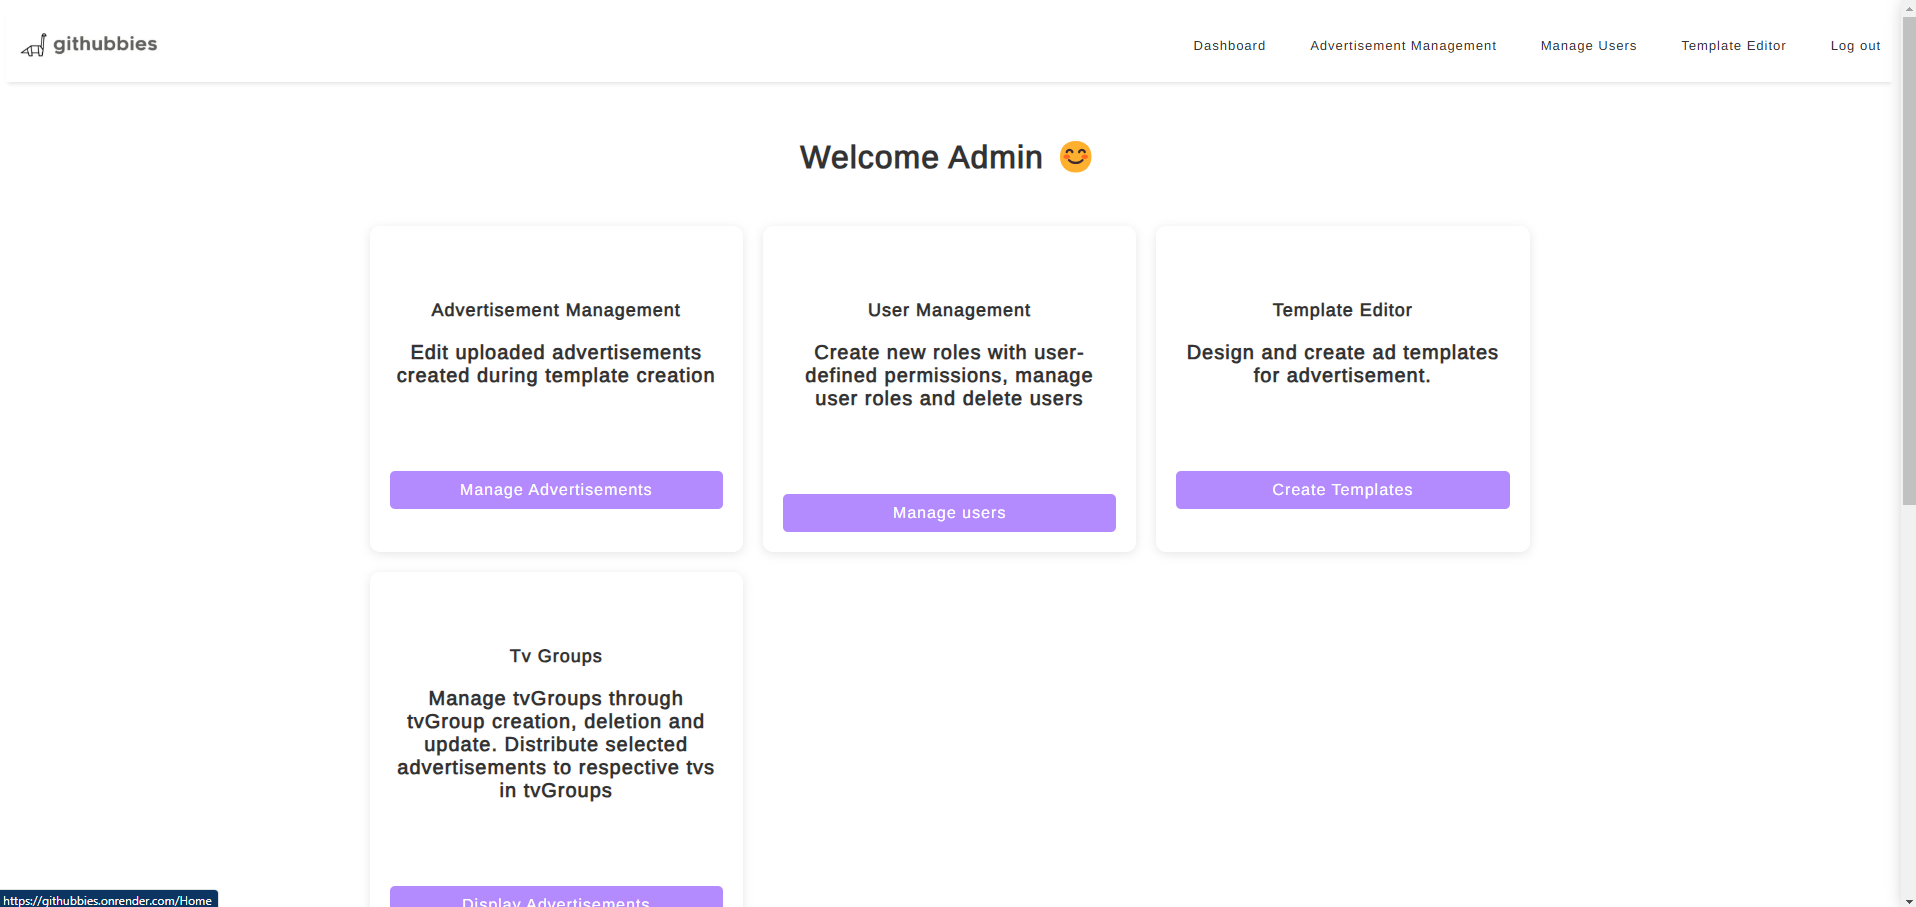
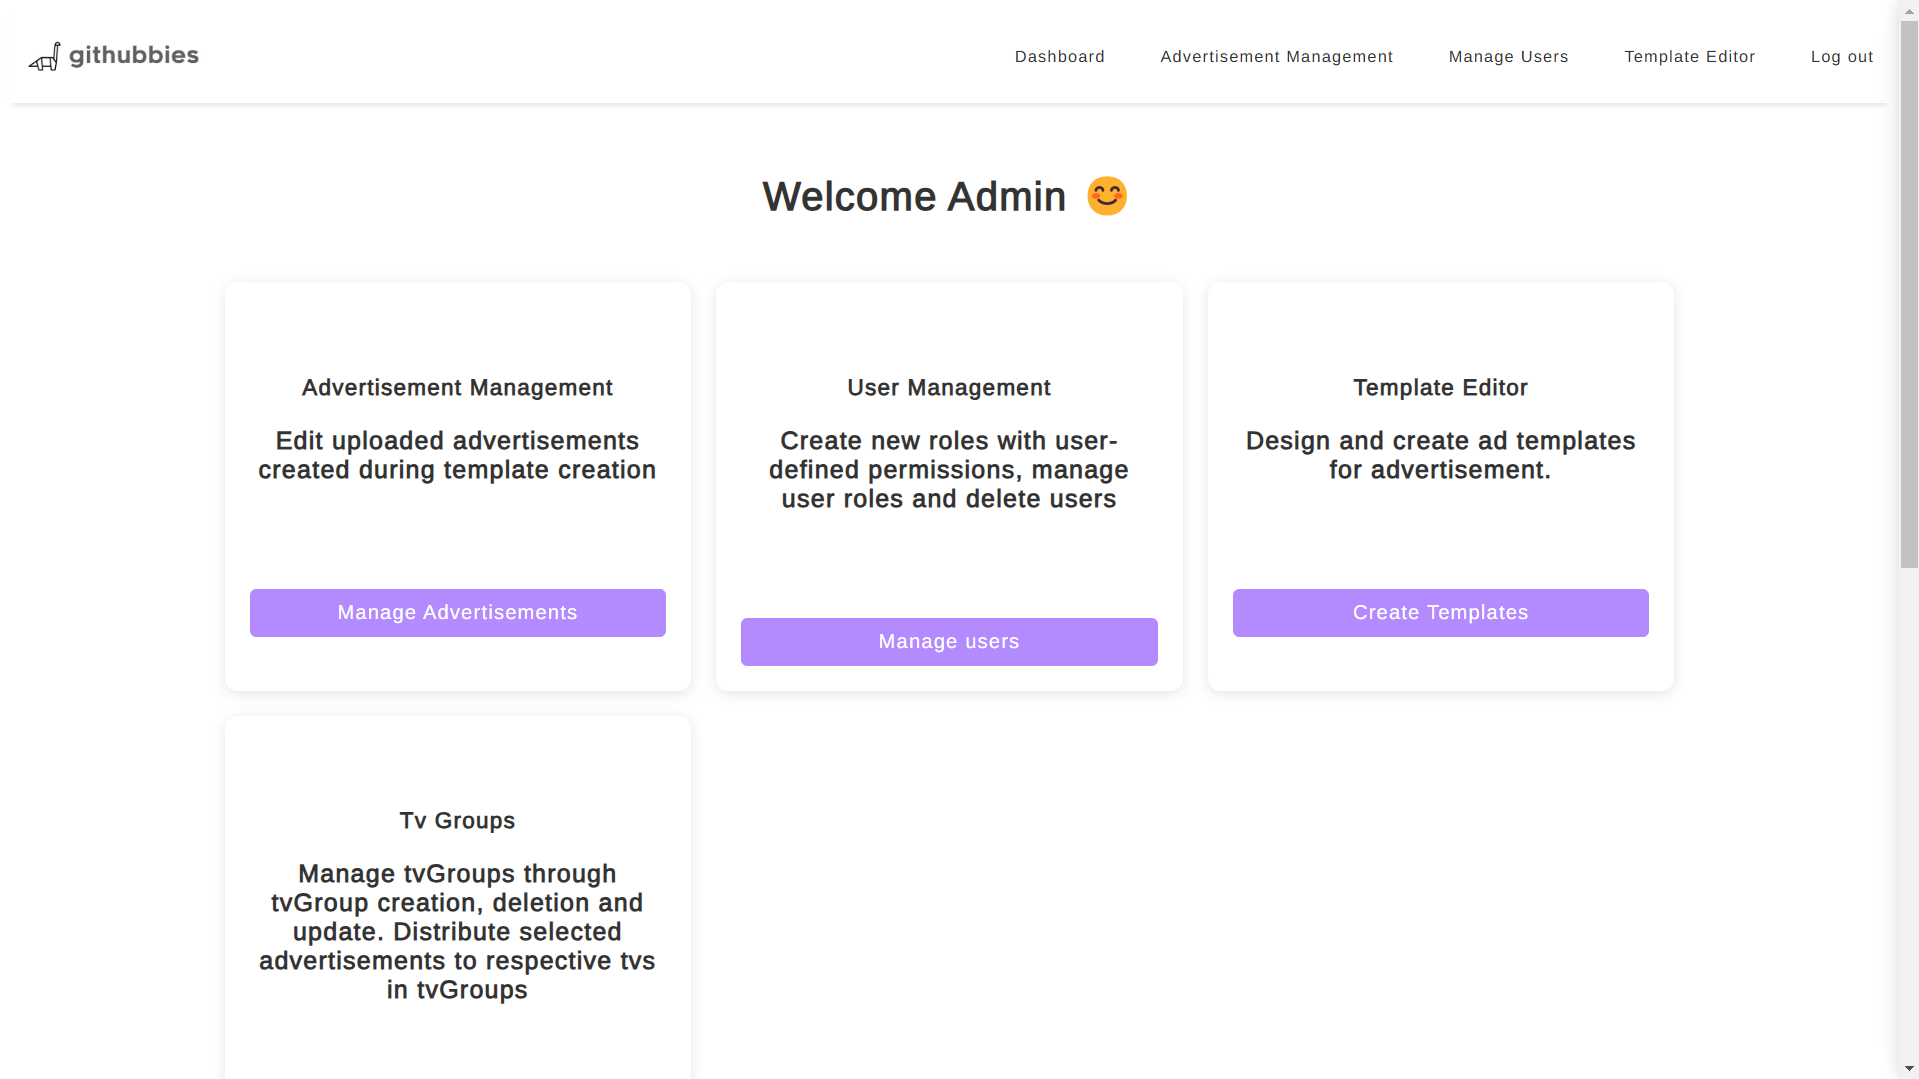
ammended the logic for displaying projects, use pop up instead of displaying on the homepage to allow for better user experience on other devices

diff --git a/src/App.tsx b/src/App.tsx
@@ -4,7 +4,6 @@ import { Card, CardContent, CardDescription, CardHeader, CardTitle } from '@/com
 import { Button } from '@/components/ui/button';
 import { Carousel, CarouselContent, CarouselItem, CarouselNext, CarouselPrevious } from './components/ui/carousel';
 import { Github, Linkedin, Mail } from 'lucide-react';
-import Autoplay from 'embla-carousel-autoplay';
 import AutoScroll from 'embla-carousel-auto-scroll';
 import resume from './assets/IsaacTiewXunYong_Resume.pdf';
 import MyPdf from './components/ui/pdf';
@@ -16,6 +15,8 @@ import BEDpic4 from './assets/BED/BED_Website_EventManagementAdmin.png'
 import FSDPpic1 from './assets/FSDP/homepage.png';
 import FSDPpic2 from './assets/FSDP/management.png';
 import FSDPpic3 from './assets/FSDP/template.png'
+import { useState,useRef } from 'react';
+import MyModal  from './components/ui/modal';
 
 
 interface projPhotos{
@@ -29,6 +30,41 @@ interface projPhotos{
 
 
 const Portfolio = () => {
+  const languagesKnown : {langName: string, image: string}[] = [
+    {langName: "C++", image: "https://cdn.jsdelivr.net/gh/devicons/devicon@latest/icons/cplusplus/cplusplus-original.svg" },
+    {langName: "Python", image: "https://cdn.jsdelivr.net/gh/devicons/devicon@latest/icons/python/python-original.svg"},
+    {langName: "Javascript", image: "https://cdn.jsdelivr.net/gh/devicons/devicon@latest/icons/javascript/javascript-plain.svg"},
+    {langName: "Java", image: "https://cdn.jsdelivr.net/gh/devicons/devicon@latest/icons/java/java-original-wordmark.svg"},
+    {langName: "Csharp", image: "https://cdn.jsdelivr.net/gh/devicons/devicon@latest/icons/csharp/csharp-original.svg"},
+    
+  ]
+  
+  const projects : projPhotos[] = [
+    {
+      title: 'Backend Community Club Website',
+      description: 'A community club website that allow adminstrators divided into roles such as event manage, admin and facilities manager. To organise events and provide frequent updates on current facilities status. Allowing for seameless engagement with residents by allowing the sign up for events ',
+      image: [BEDpic1,BEDpic2,BEDpic3,BEDpic4],
+      tag: ['Express JS', 'Js', 'Node Js'],
+      gitHubUrl:"https://github.com/Isa-AcTiEw/BED2024Apr_P03_T07",
+      isMulti: true,
+    },
+    {
+      title: 'Ad distribution system ',
+      description: 'Real-time ad distribution system that utilises a serverless architecture, to enable real-time ad distribution and updates. Responsible for development of Role based authentication system for managing access to functionalities and features within the app',
+      image: [FSDPpic1,FSDPpic2,FSDPpic3],
+      tag: ['React', 'Javascript', 'Socket.io', 'DynamoDB'],
+      gitHubUrl:"https://github.com/danielbakrr/fsdp",
+      isMulti: true,
+    },
+    {
+      title: 'MAD Application built with Java in Android Studio',
+      description : 'F&B mobile application for Ngee Ann Polytechnic BYOB (Bring your own buisnesses) buisnesses. Allow users to support and order from entreprenuial F&B buisnesses arround campus ',
+      image: "",
+      tag: ["Andriod Studio","Java"],
+      gitHubUrl: "",
+      isMulti: false,
+    }
+  ];
   const technologiesKnown = [
     {
       title: "React",
@@ -75,45 +111,52 @@ const Portfolio = () => {
       image: "https://cdn.jsdelivr.net/gh/devicons/devicon@latest/icons/express/express-original-wordmark.svg"
     }
   ];
-
-  const languagesKnown : {langName: string, image: string}[] = [
-    {langName: "C++", image: "https://cdn.jsdelivr.net/gh/devicons/devicon@latest/icons/cplusplus/cplusplus-original.svg" },
-    {langName: "Python", image: "https://cdn.jsdelivr.net/gh/devicons/devicon@latest/icons/python/python-original.svg"},
-    {langName: "Javascript", image: "https://cdn.jsdelivr.net/gh/devicons/devicon@latest/icons/javascript/javascript-plain.svg"},
-    {langName: "Java", image: "https://cdn.jsdelivr.net/gh/devicons/devicon@latest/icons/java/java-original-wordmark.svg"},
-    {langName: "Csharp", image: "https://cdn.jsdelivr.net/gh/devicons/devicon@latest/icons/csharp/csharp-original.svg"},
-    
-  ]
+  const [isModalOpen, setIsModalOpen] = useState<boolean>(false);
+  const [isClicked, setIsClicked] = useState<boolean[]>(new Array(projects.length).fill(false));
+  const buttonRef = useRef<HTMLButtonElement | null>(null); // Create a ref for the button
+  const [selectedProj,setSelectedProj] = useState<projPhotos | null>(null);
   
-  const projects : projPhotos[] = [
-    {
-      title: 'Backend Community Club Website',
-      description: 'A community club website that allow adminstrators divided into roles such as event manage, admin and facilities manager. To organise events and provide frequent updates on current facilities status. Allowing for seameless engagement with residents by allowing the sign up for events ',
-      image: [BEDpic1,BEDpic2,BEDpic3,BEDpic4],
-      tag: ['Express JS', 'Js', 'Node Js'],
-      gitHubUrl:"https://github.com/Isa-AcTiEw/BED2024Apr_P03_T07",
-      isMulti: true,
-    },
-    {
-      title: 'Ad distribution system ',
-      description: 'Developed a real-time ad distribution system that utilises a serverless architecture, to enable real-time ad distribution and updates. Responsible for development of Role based authentication system for managing access to functionalities and features within the app',
-      image: [FSDPpic1,FSDPpic2,FSDPpic3],
-      tag: ['React', 'Javascript', 'Socket.io', 'DynamoDB'],
-      gitHubUrl:"https://github.com/danielbakrr/fsdp",
-      isMulti: true,
-    },
-    {
-      title: 'MAD Application built with Java in Android Studio',
-      description : 'F&B mobile application for Ngee Ann Polytechnic BYOB (Bring your own buisnesses) buisnesses. Allow users to support and order from entreprenuial F&B buisnesses arround campus ',
-      image: "",
-      tag: ["Andriod Studio","Java"],
-      gitHubUrl: "",
-      isMulti: false,
+
+  const handleClick = (index: number) => {
+    setIsClicked(prevState => {
+        const newState = [...prevState];
+        // Ensure the array is long enough to accommodate the focused element
+        while (newState.length <= index) {
+            newState.push(false); // Add false values to the array until it reaches the required index
+        }
+        newState[index] = true; // Mark the element at `index` as focused
+        return newState;
+    });
+  };
+
+  const openModal =(project: projPhotos ) =>{
+    setIsModalOpen(true);
+    // destructure and pass to modal
+    setSelectedProj(project)
+  }
+
+  const handleBlur = (index: number, e:React.FocusEvent<HTMLDivElement | Element>) => {
+    if (buttonRef.current && !buttonRef.current.contains(e.relatedTarget)) {
+      const newClickedState = [...isClicked];
+      newClickedState[index] = false; // Reset clicked state when focus is lost
+      setIsClicked(newClickedState);
     }
-  ];
+  };
+
+
+  
 
   return (
     <div className="min-h-screen p-8" style={{ backgroundColor: 'hsl(var(--background))' }}>
+       {/* Call the modal directly based on isClicked state */}
+       {selectedProj && isModalOpen && (
+                    <MyModal
+                      header={selectedProj.title}
+                      images={selectedProj.image}
+                      body={selectedProj.description}
+                      onClose={() => setIsModalOpen(false)} // Close modal
+                    />
+                  )}
       {/* About Section */}
       <div className = " flex flex-row justify-center items-center p-2 m-20">
         <h1>Aspiring Software Engineer Isaac Tiew</h1>
@@ -217,53 +260,22 @@ const Portfolio = () => {
         <h2 className="text-2xl font-bold mb-6" style={{ color: 'hsl(var(--primary))' }}>Featured Projects</h2>
       </div>
       <div className="grid gap-6 md:grid-cols-1 lg:grid-cols-2 w-full">
-          {projects.map((project) => (
-            <Card className = "drop-shadow-lg px-1 justify-center sm: w-200px h-200px" key={project.title} style={{ backgroundColor: 'hsl(var(--card))', color: 'hsl(var(--card-foreground))' }}>
+          {projects.map((project,index) => (
+            <Card className = "drop-shadow-lg px-1 justify-center sm: w-200px h-200px relative" key={project.title} style={{ backgroundColor: 'hsl(var(--card))', color: 'hsl(var(--card-foreground))' }} tabIndex={0} onClick={()=> handleClick(index)}
+            onBlur={(e) => handleBlur(index, e)}>
               <CardHeader>
                 <CardTitle>{project.title}</CardTitle>
               </CardHeader>
-              <CardContent>
-                <p className="mb-4">{project.description}</p>
-                {project.isMulti ? (
-                  <Carousel
-                    plugins = {[
-                      Autoplay({
-                        delay: 3000
-                      })
-                    ]}
-                    className="relative w-full">
-                    <CarouselContent>
-                        {Array.isArray(project.image) && project.image.length > 0 ? (
-                          project.image.map((imgSrc, index) => {
-                            console.log('Rendering image:', imgSrc);  // Logs the current image source
-                            return (
-                              <CarouselItem key={index}>
-                                <div className="p-1">
-                                  <Card>
-                                  <CardContent className="flex items-center justify-center p-0">
-                                    <div className="w-full aspect-[16/9]">
-                                      <img
-                                        src={imgSrc}
-                                        alt={`Image ${index}`}
-                                        className="w-full h-full object-cover rounded-sm"
-                                      />
-                                    </div>
-                                  </CardContent>
-
-                                  </Card>
-                                </div>
-                              </CarouselItem>
-                            );
-                          })
-                        ) : (
-                        <p>No images available</p>
-                      )}
-                    </CarouselContent>
-                    <CarouselPrevious className = "left-2"/>
-                    <CarouselNext className = "right-2"/>
-
-                </Carousel>
-                ) : null}
+              <CardContent className = "flex flex-col justify-center">
+                {project.isMulti && project.image ? (
+                    <div className='mb-5'>
+                      <img
+                        className="aspect-video rounded-sm"
+                        src={project.image[0]}
+                        alt="Project image"
+                      />
+                    </div>
+                ): null}
                 <div className="flex flex-wrap gap-2">
                   {project.tag.map((tags) => (
                     <Badge key={tags} variant="outline" className="text-xs" style={{ color: 'hsl(var(--muted-foreground))' }}>
@@ -281,7 +293,14 @@ const Portfolio = () => {
 
                 </div>
               </CardContent>
+              {isClicked[index] ? (
+                  <div className = 'absolute inset-0 z-50 flex justify-center items-center bg-slate-950 bg-opacity-70 rounded-lg'>
+                    <Button ref = {buttonRef} className='rounded-sm bg-white w-fit h-fit' onClick ={()=> openModal(projects[index])}>More details</Button>
+                  </div>
+
+                ): null}
             </Card>
+            
           ))}
         </div>
       </section>
@@ -321,6 +340,8 @@ const Portfolio = () => {
         </Card>
       </section>
     </div>
+
+    
   );
   
 };

diff --git a/src/components/ui/modal.tsx b/src/components/ui/modal.tsx
@@ -1,0 +1,68 @@
+import { Card, CardContent, CardHeader } from "./card";
+import { Carousel, CarouselItem, CarouselContent, CarouselNext, CarouselPrevious } from "./carousel";
+import { Button } from "./button";
+import Autoplay from 'embla-carousel-autoplay';
+
+type ModalContent = {
+    header: string;
+    body: string;
+    images: string[] | string;
+    onClose: ()=> void
+};
+
+export default function MyModal({ header, body, images,onClose }: ModalContent) {
+    return (
+        <div className="fixed inset-0 z-50 flex flex-col justify-center items-center bg-black bg-opacity-50 backdrop-blur-md w-full h-full p-4">
+            {/* The card content */}
+            <Card className="w-[350px] text-[15px] sm:w-[650px] sm:text-[18px] shadow-lg rounded-lg px-4"
+                style={{
+                    backgroundColor: 'hsl(var(--card))',
+                    color: 'hsl(var(--card-foreground))',
+                }}>
+                <CardHeader>{header}</CardHeader>
+                <CardContent className="flex flex-col rounded-sm w-full h-full items-center">
+                    {Array.isArray(images) && images.length > 0 ? (
+                        <Carousel className="relative w-full" plugins={[Autoplay({ delay: 3000 })]}>
+                            <CarouselContent>
+                                {images.map((imgSrc, index) => {
+                                    console.log('Rendering image:', imgSrc);  // Logs the current image source
+                                    return (
+                                        <CarouselItem key={index}>
+                                            <div className="p-1">
+                                                <Card>
+                                                    <CardContent className="flex items-center justify-center p-0">
+                                                        <div className="w-full aspect-video">
+                                                            <img
+                                                                src={imgSrc}
+                                                                alt={`Image ${index}`}
+                                                                className="w-full h-full object-cover rounded-sm"
+                                                            />
+                                                        </div>
+                                                    </CardContent>
+                                                </Card>
+                                            </div>
+                                        </CarouselItem>
+                                    );
+                                })}
+                            </CarouselContent>
+                            <CarouselPrevious className="left-2" />
+                            <CarouselNext className="right-2" />
+                        </Carousel>
+                    ) : (
+                        <div>
+                            <p>No images available</p>
+                        </div>
+                    )}
+    
+                    <div className="mt-5">
+                        <p>{body}</p>
+                    </div>
+                    <Button variant={'destructive'} className="mt-5 items-center text-center" onClick={onClose}>
+                        <p>Close Modal</p>
+                    </Button>
+                </CardContent>
+            </Card>
+        </div>
+    );
+    
+}

diff --git a/src/index.css b/src/index.css
@@ -56,7 +56,7 @@
 
   body {
     font-family: 'Fira Code', monospace;
-    font-size: 20px;
+    font-size: 18px;
   }
 
     /* Light Mode Background */
